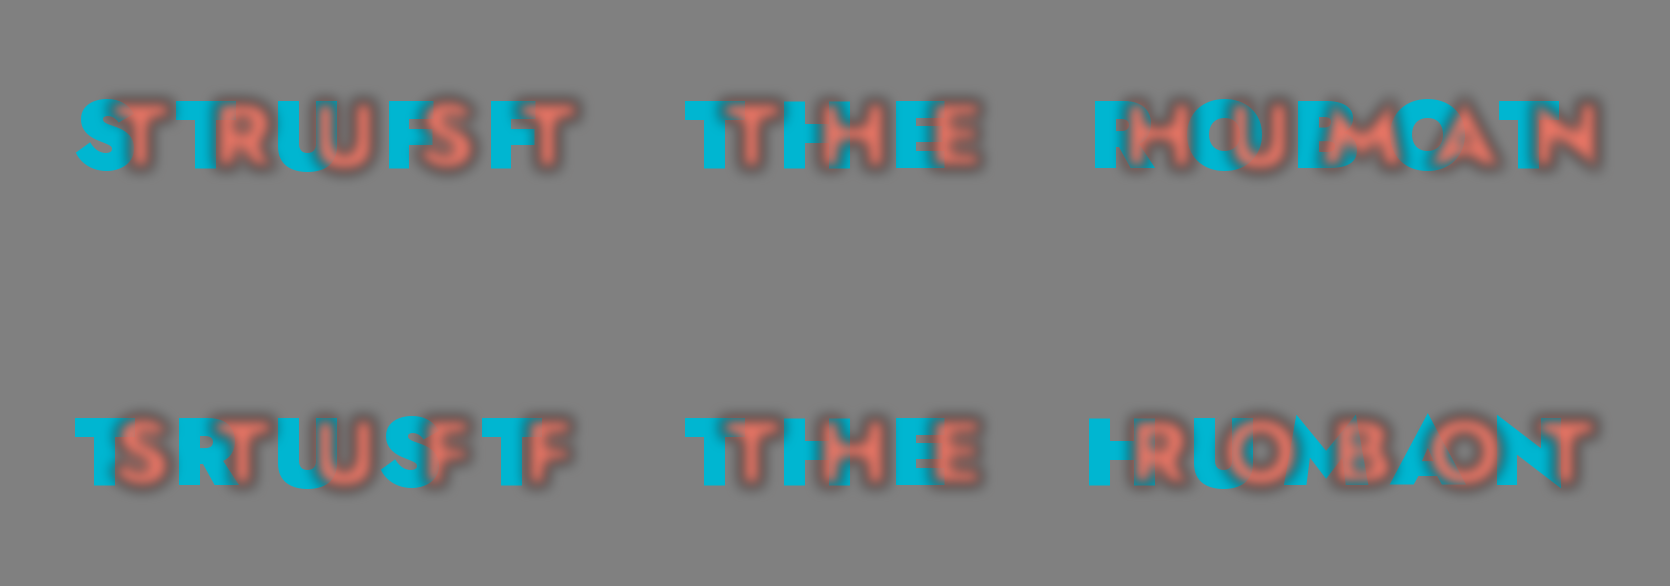
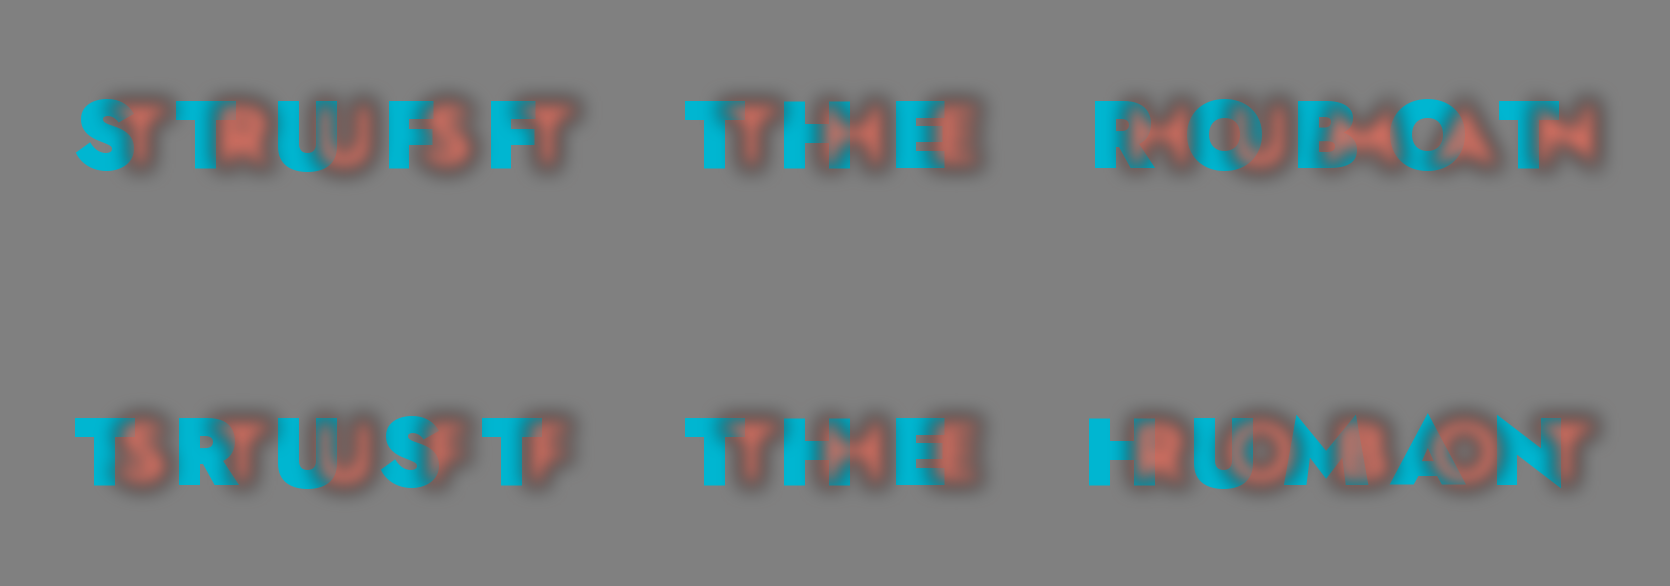
blog: add the Scotoma experiment results to the typeface post
Replace the untested-hypothesis hedge with the measured outcome (14k
trials, six VLMs, threshold at blur 0.10 of font size) and re-render
both example images at the new default blur so the effect holds.

diff --git a/src/content/blog/2026/07/22/a-typeface-for-humans-not-machines.md b/src/content/blog/2026/07/22/a-typeface-for-humans-not-machines.md
@@ -46,12 +46,29 @@ same image gets the opposite one.
 
 ![Two stacked panels of overlapping red and cyan capitals. A human reads TRUST THE HUMAN then STUFF THE ROBOT down the panels; a model reads the two messages the other way around.](./scotoma-diptych.png)
 
-I haven't yet run this past the models, so I can't tell you how often it
-actually works on text. The circle result might not transfer cleanly, because
-reading a half-occluded letter is a harder ask than judging which of two blobs
-is nearer. That's on my todo list for sure. But a typeface doesn't need the
-experiment to work out to be worth having. Worst case, the models read straight
-through it and Jess and I have come up with a font with a cool backstory.
+When I first published this post I hadn't yet run Scotoma past the models, and I
+hedged accordingly. Now I have: just over 14,000 transcription trials across six
+current VLMs (Claude Opus, Sonnet and Haiku; GPT-5.4 full, mini and nano), each
+shown a pair of overlaid ten-letter strings and asked what the image
+says.[^design] The effect is real, but it has a threshold. At light blur the
+models read the blurred stream in front, the same one you do, because the crisp
+stream behind is still the fragmentary one. Push the blur radius up to a tenth
+of the font size and every model flips: 97% of transcriptions are closer to the
+crisp stream than the blurred one. At the heaviest blur we tested, three
+quarters reproduce the crisp string letter-for-letter. Warning the model that
+there might be two overlapping messages doesn't rescue it, and neither does
+chain-of-thought prompting or extended thinking.
+
+The embarrassing part: the first version of this post rendered its images just
+below that threshold, at a blur where the models mostly read "HELLO HUMANS" too.
+The examples above use the new default, blur at 0.10 of the font size rather
+than 0.07, and there the trick actually works.
+
+The control conditions behaved themselves. The flip happens for pronounceable
+nonsense ("GRIMPUNVUT") just as it does for English words, so it isn't a
+language prior doing the work. The Claude models do cling to a blurred string
+slightly longer when it spells something real, filling in what the pixels no
+longer support.[^confab]
 
 The
 [code is on GitHub](https://github.com/ANUcybernetics/vlm-perception-experiments):
@@ -63,3 +80,16 @@ letterforms. It's a riff on Decoy Font rather than a rival to it.
     A scotoma is a blind spot in the visual field. So we're borrowing a bit of
     human vision science to name a weakness in machines that have no visual
     field.
+
+[^design]:
+    Space-free uppercase pairs from two pools --- eight common English
+    ten-letter words and eight matched pseudowords --- at six blur levels, both
+    compositing orders, colour roles counterbalanced, three repetitions per
+    condition, four prompt styles. Every model first passed an unblurred
+    legibility check, so a failure to read the blurred stream means the illusion
+    worked, not that the font is hard to read.
+
+[^confab]:
+    Opus, shown a blurred KLEKLOSKAT over a crisp SNASMILBUL with its extended
+    thinking on, confidently reported "SNAKESKINBUILT". There is something very
+    relatable about that.